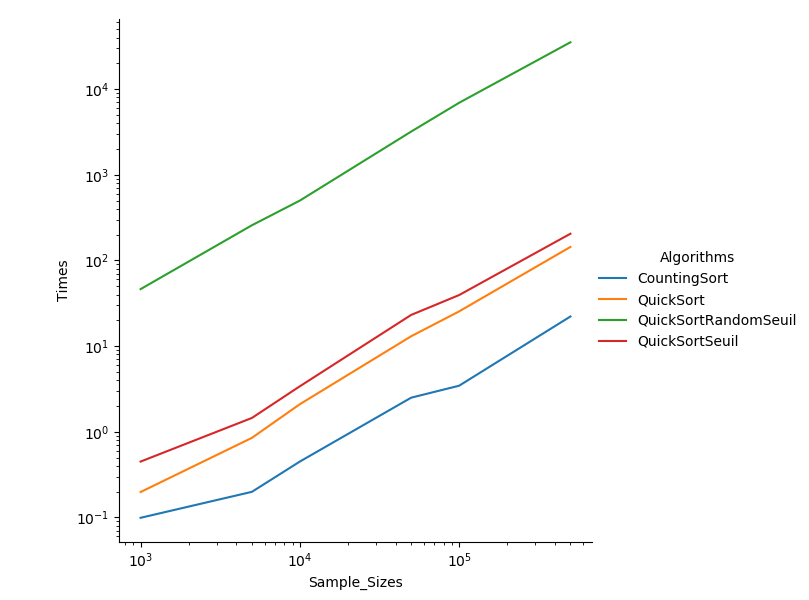
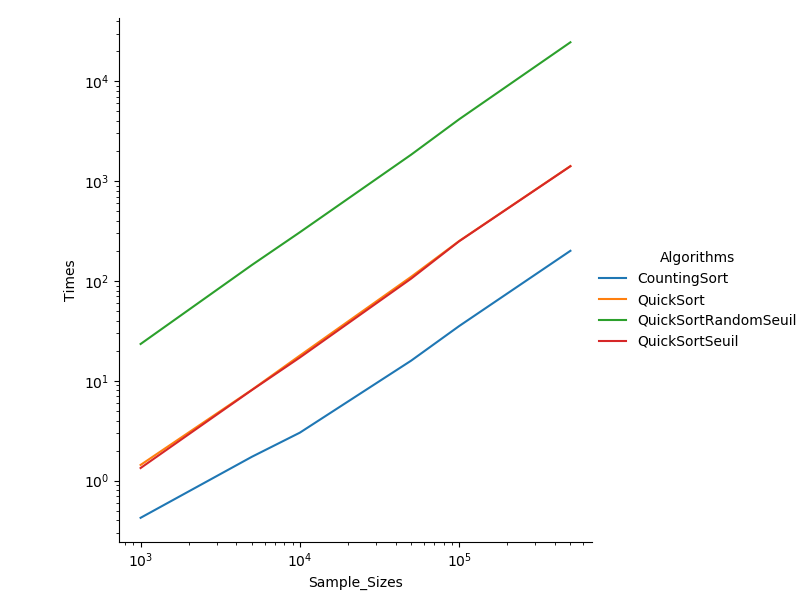
..

diff --git a/tp1-H19/exemple/src/main.py b/tp1-H19/exemple/src/main.py
@@ -61,6 +61,7 @@ for size in sizes:
     sortTime2 = 0.0
     sortTime3 = 0.0
     sortTime4 = 0.0
+    countingSortErr = 0
     for test in range(testset[0], testset[1]):
         file = "../../exemplaires/testset_" + str(size) + "_" + str(test) + ".txt"
         array = []
@@ -68,11 +69,11 @@ for size in sizes:
         # execute the algorithms 
         # quickSort
         array = deepcopy(tempArray)
-        sortTime1 = quickSort(array)
+        sortTime1 += quickSort(array)
 
         # quickSort with seuil
         array = deepcopy(tempArray)
-        sortTime2 = quickSortSeuil(array)
+        sortTime2 += quickSortSeuil(array)
 
         # quickSort with seuil and random pivot
         for i in range(0, 10):
@@ -81,8 +82,13 @@ for size in sizes:
         sortTime3 += (sortTime3/10)
 
         # countingSort
+        tmpTime = 0.0
         array = deepcopy(tempArray)
-        sortTime4 = countingSort(array)
+        tmpTime = countingSort(array)
+        if tmpTime > 0:
+            sortTime4 += tmpTime
+        else:
+            countingSortErr += 1
     
     sortTime1 = round(1000 * sortTime1/10, 3)
     times1.append(sortTime1)
@@ -90,7 +96,7 @@ for size in sizes:
     times2.append(sortTime2)
     sortTime3 = round(1000 * sortTime3/10, 3)
     times3.append(sortTime3)
-    sortTime4 = round(1000 * sortTime4/10, 3)
+    sortTime4 = round(1000 * sortTime4/(10 - countingSortErr), 3)
     times4.append(sortTime4)
 
 with open('results' + input + '.csv', 'a', newline='') as myfile:

diff --git a/tp1-H19/exemple/src/quickSeuil.py b/tp1-H19/exemple/src/quickSeuil.py
@@ -7,7 +7,7 @@ def read_integers(filename):
         return array
 
 def sortingAlgo(array, start, end):
-    if (end - start) >= 100:
+    if (end - start) >= 24:
         pivot = array[start]
         index = start
         for i in range (start + 1, end + 1):            

diff --git a/tp1-H19/exemple/src/quickRandomSeuil.py b/tp1-H19/exemple/src/quickRandomSeuil.py
@@ -8,7 +8,7 @@ def read_integers(filename):
         return array
 
 def sortingAlgo(array, start, end):
-    if (end - start) >= 100:
+    if (end - start) >= 24:
         rand = randint(start, end)
         pivot = array[rand]
         index = start
